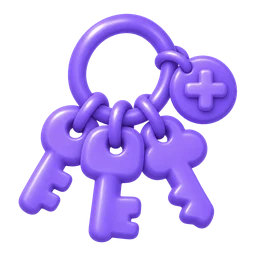
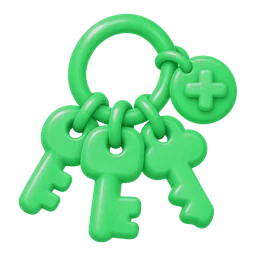
style(activity): green key bunch for added recovery keys

diff --git a/apps/mobile/assets/illustrations/source/README.md b/apps/mobile/assets/illustrations/source/README.md
@@ -37,8 +37,8 @@ palette, so they read at icon size. Saved at 256px. Activity shows them bare,
 with no disc behind them, and the event is part of the object rather than a
 corner badge.
 
-| File                   | Used on                | Subject                                                                                                                                       |
-| ---------------------- | ---------------------- | --------------------------------------------------------------------------------------------------------------------------------------------- |
-| `recovery-key-added`   | Added Recovery Key     | Three chunky keys of slightly different shapes on one thick ring, with a round charm on the ring carrying an embossed plus. Violet `#7C5CFF`. |
-| `recovery-key-removed` | Removed Recovery Key   | The same render with the plus swapped for an embossed cross, then desaturated to neutral grey so a removed key reads as gone.                 |
-| `wallet-renamed`       | Renamed / Named Wallet | A chunky bifold wallet with a blank luggage-style name tag on a loop of cord. Blue `#0080FF`, the tag a lighter tint.                         |
+| File                   | Used on                | Subject                                                                                                                                                                        |
+| ---------------------- | ---------------------- | ------------------------------------------------------------------------------------------------------------------------------------------------------------------------------ |
+| `recovery-key-added`   | Added Recovery Key     | Three chunky keys of slightly different shapes on one thick ring, with a round charm on the ring carrying an embossed plus. Rendered violet, recoloured to the money-in green. |
+| `recovery-key-removed` | Removed Recovery Key   | The same render with the plus swapped for an embossed cross, then desaturated to neutral grey so a removed key reads as gone.                                                  |
+| `wallet-renamed`       | Renamed / Named Wallet | A chunky bifold wallet with a blank luggage-style name tag on a loop of cord. Blue `#0080FF`, the tag a lighter tint.                                                          |
